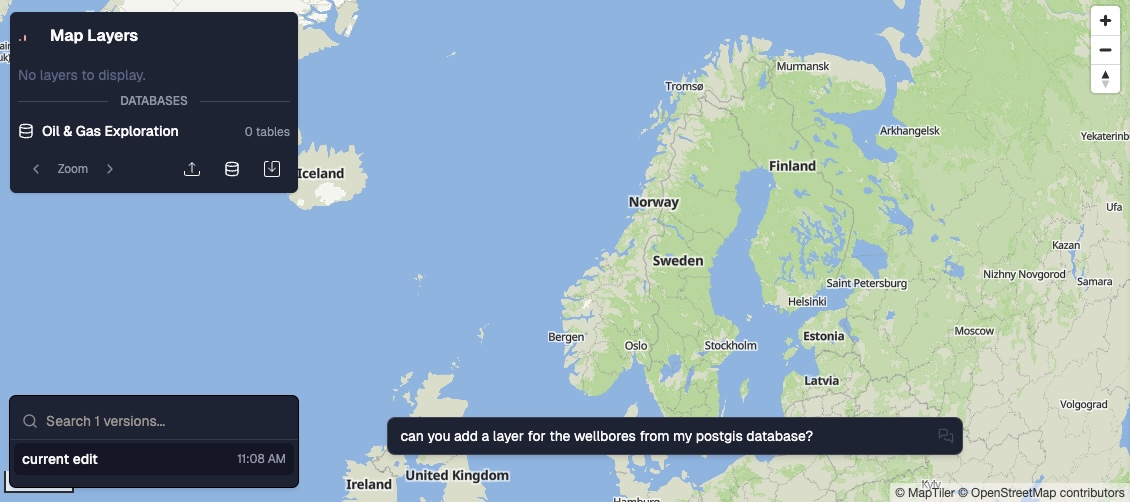
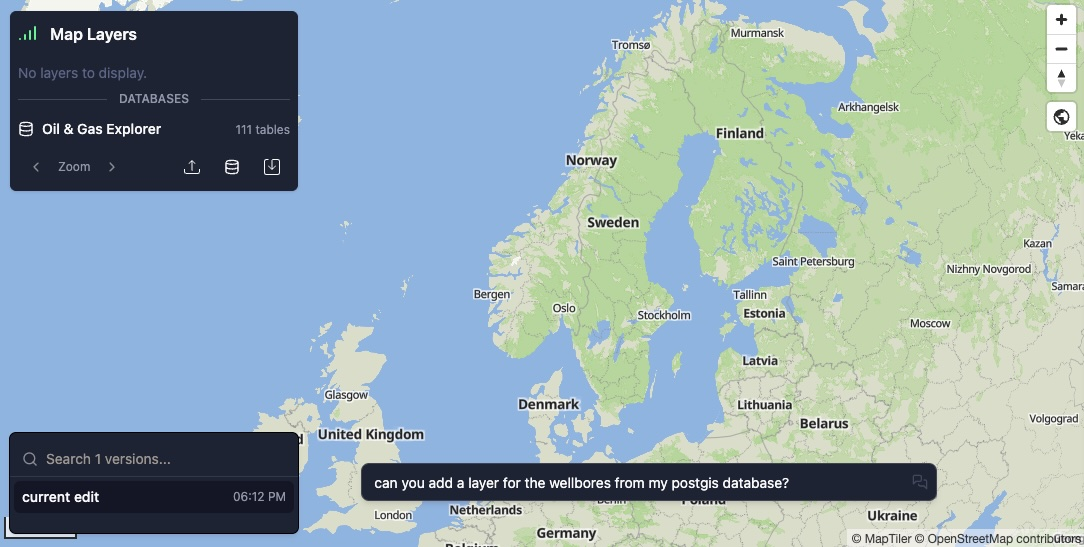
update postgres with more docs

diff --git a/docs/src/content/docs/guides/connecting-to-postgis.md b/docs/src/content/docs/guides/connecting-to-postgis.md
@@ -68,13 +68,9 @@ can you add a layer for the wellbores from my postgis database?
 
 ![Kue request to add new layer](../../../assets/postgis/request_add_layer.jpg)
 
+This creates a dynamic layer in Mundi that continuously pulls data from your PostGIS database:
 
-
-
-
-
-
-
+![Mundi dynamic PostGIS layer served from database](../../../assets/postgis/wellbores.jpg)
 
 
 ## Best practices and errors
